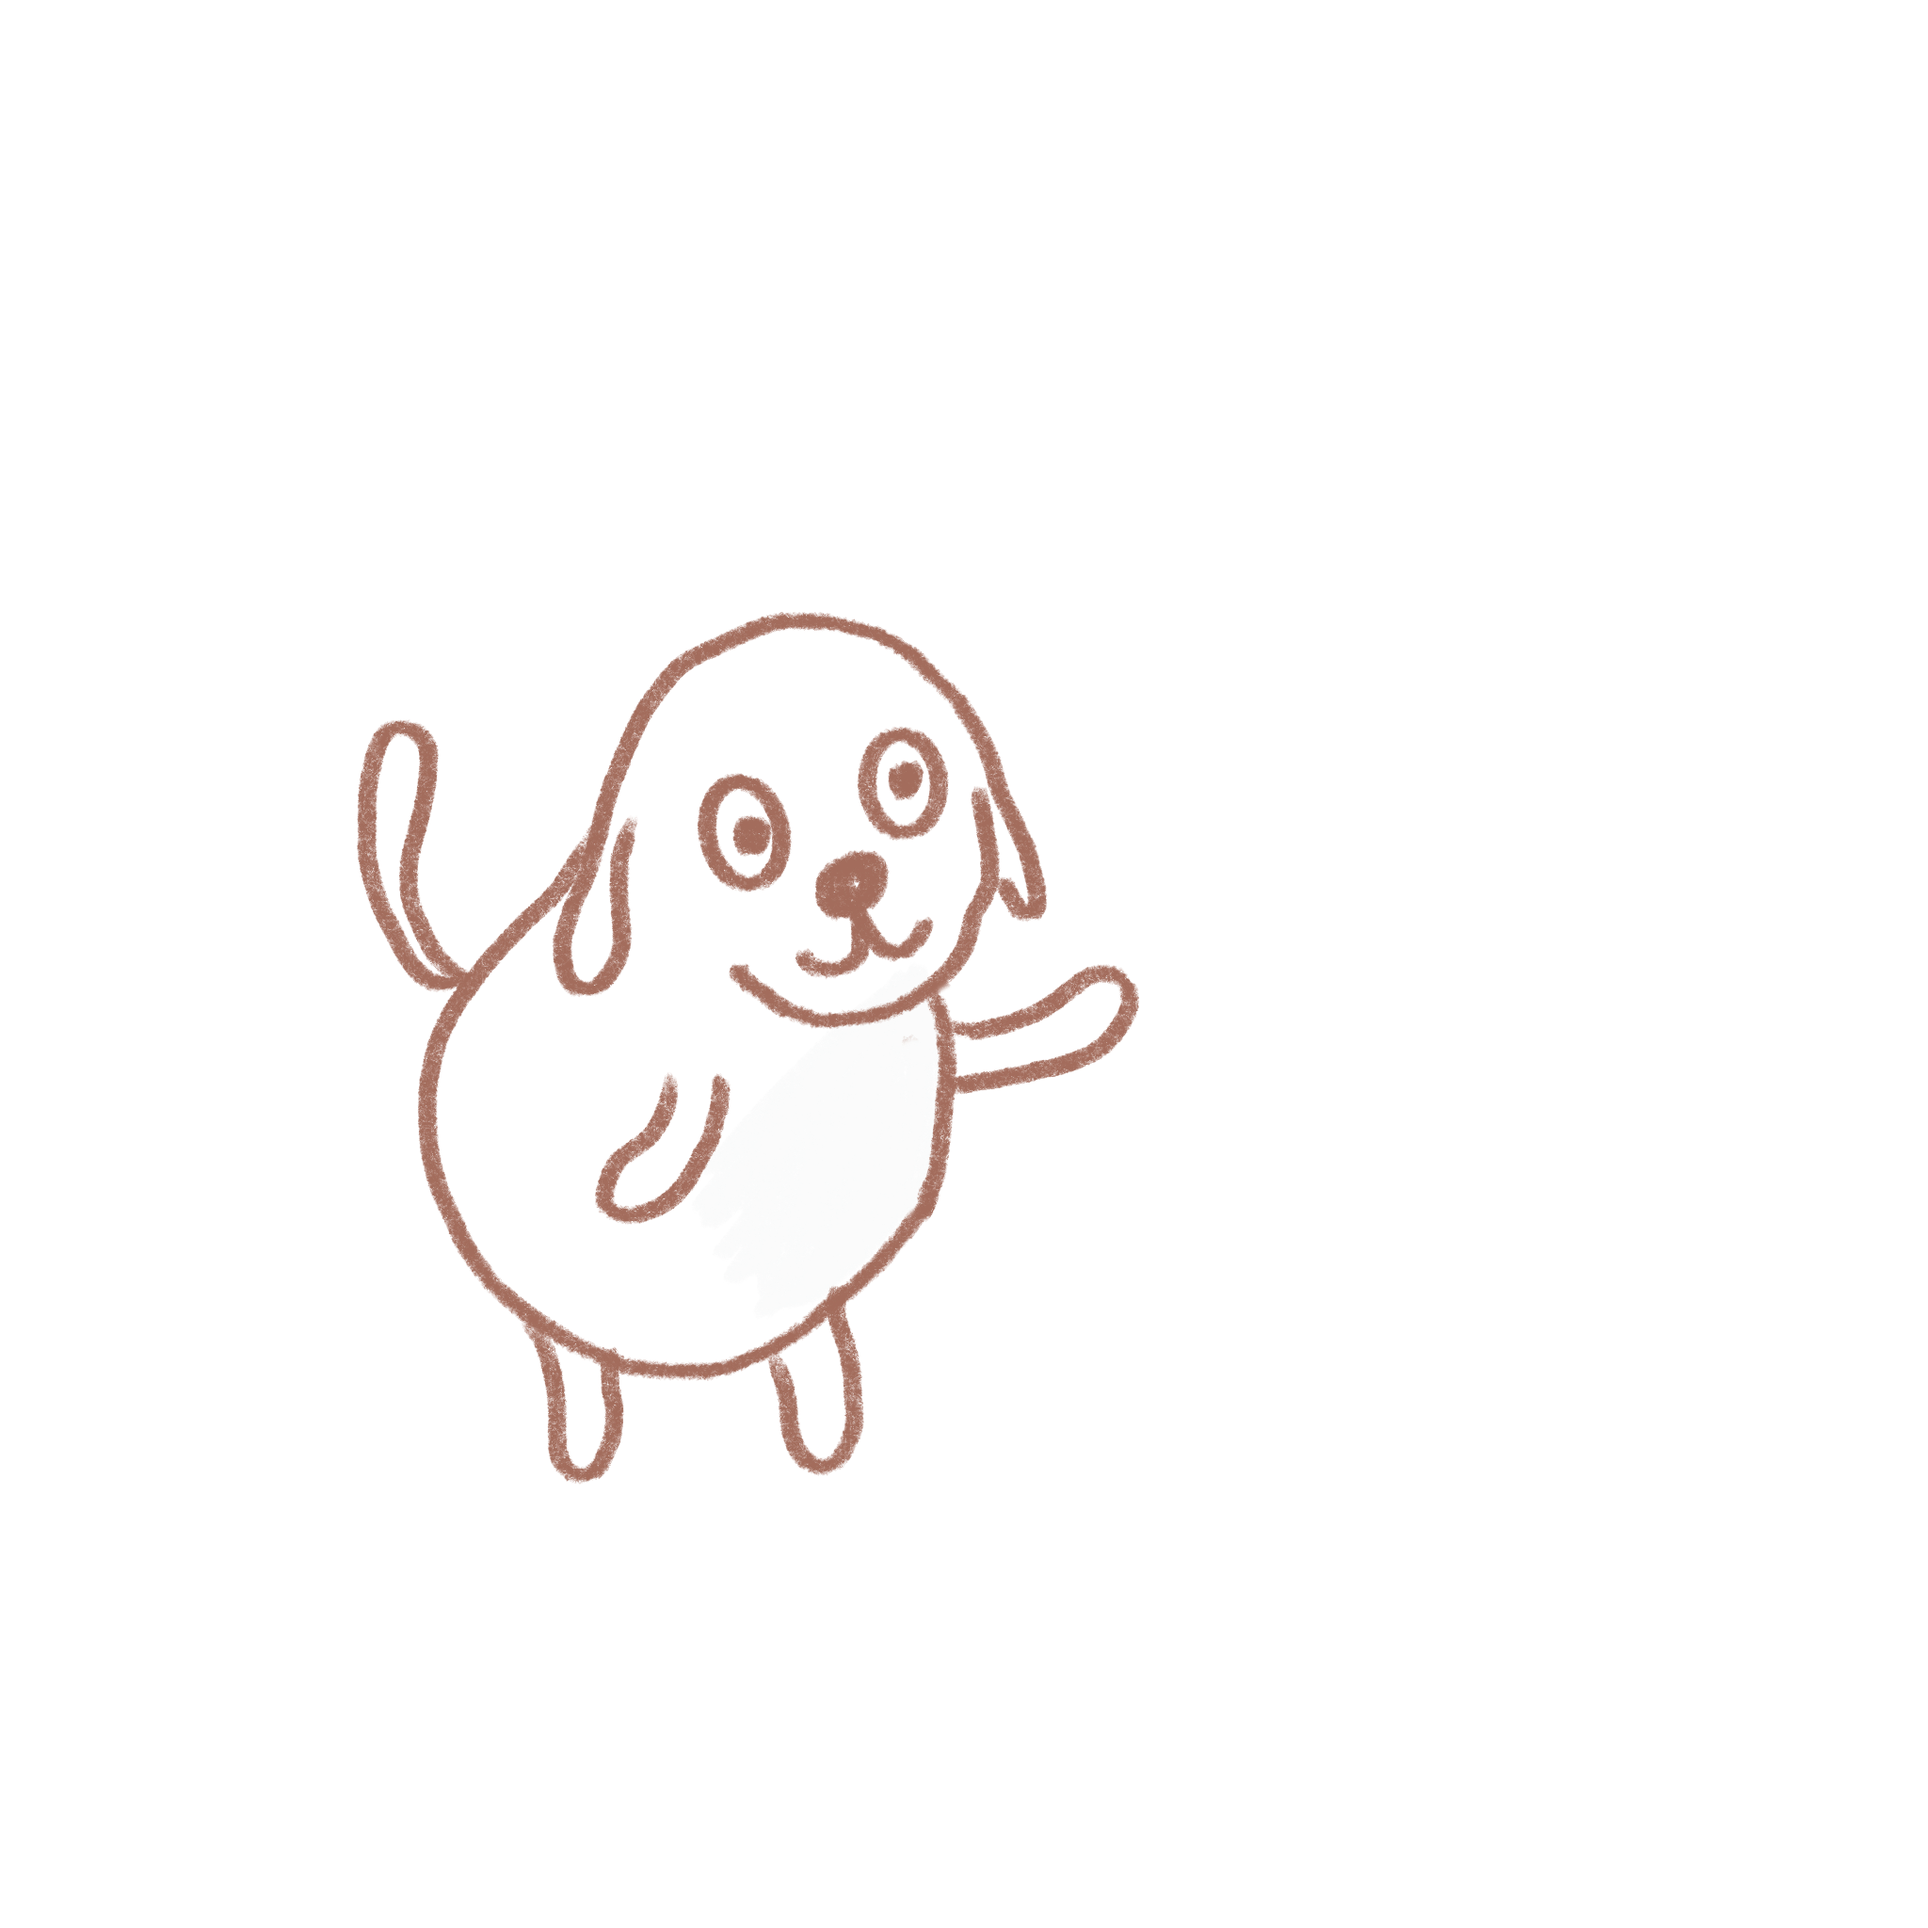
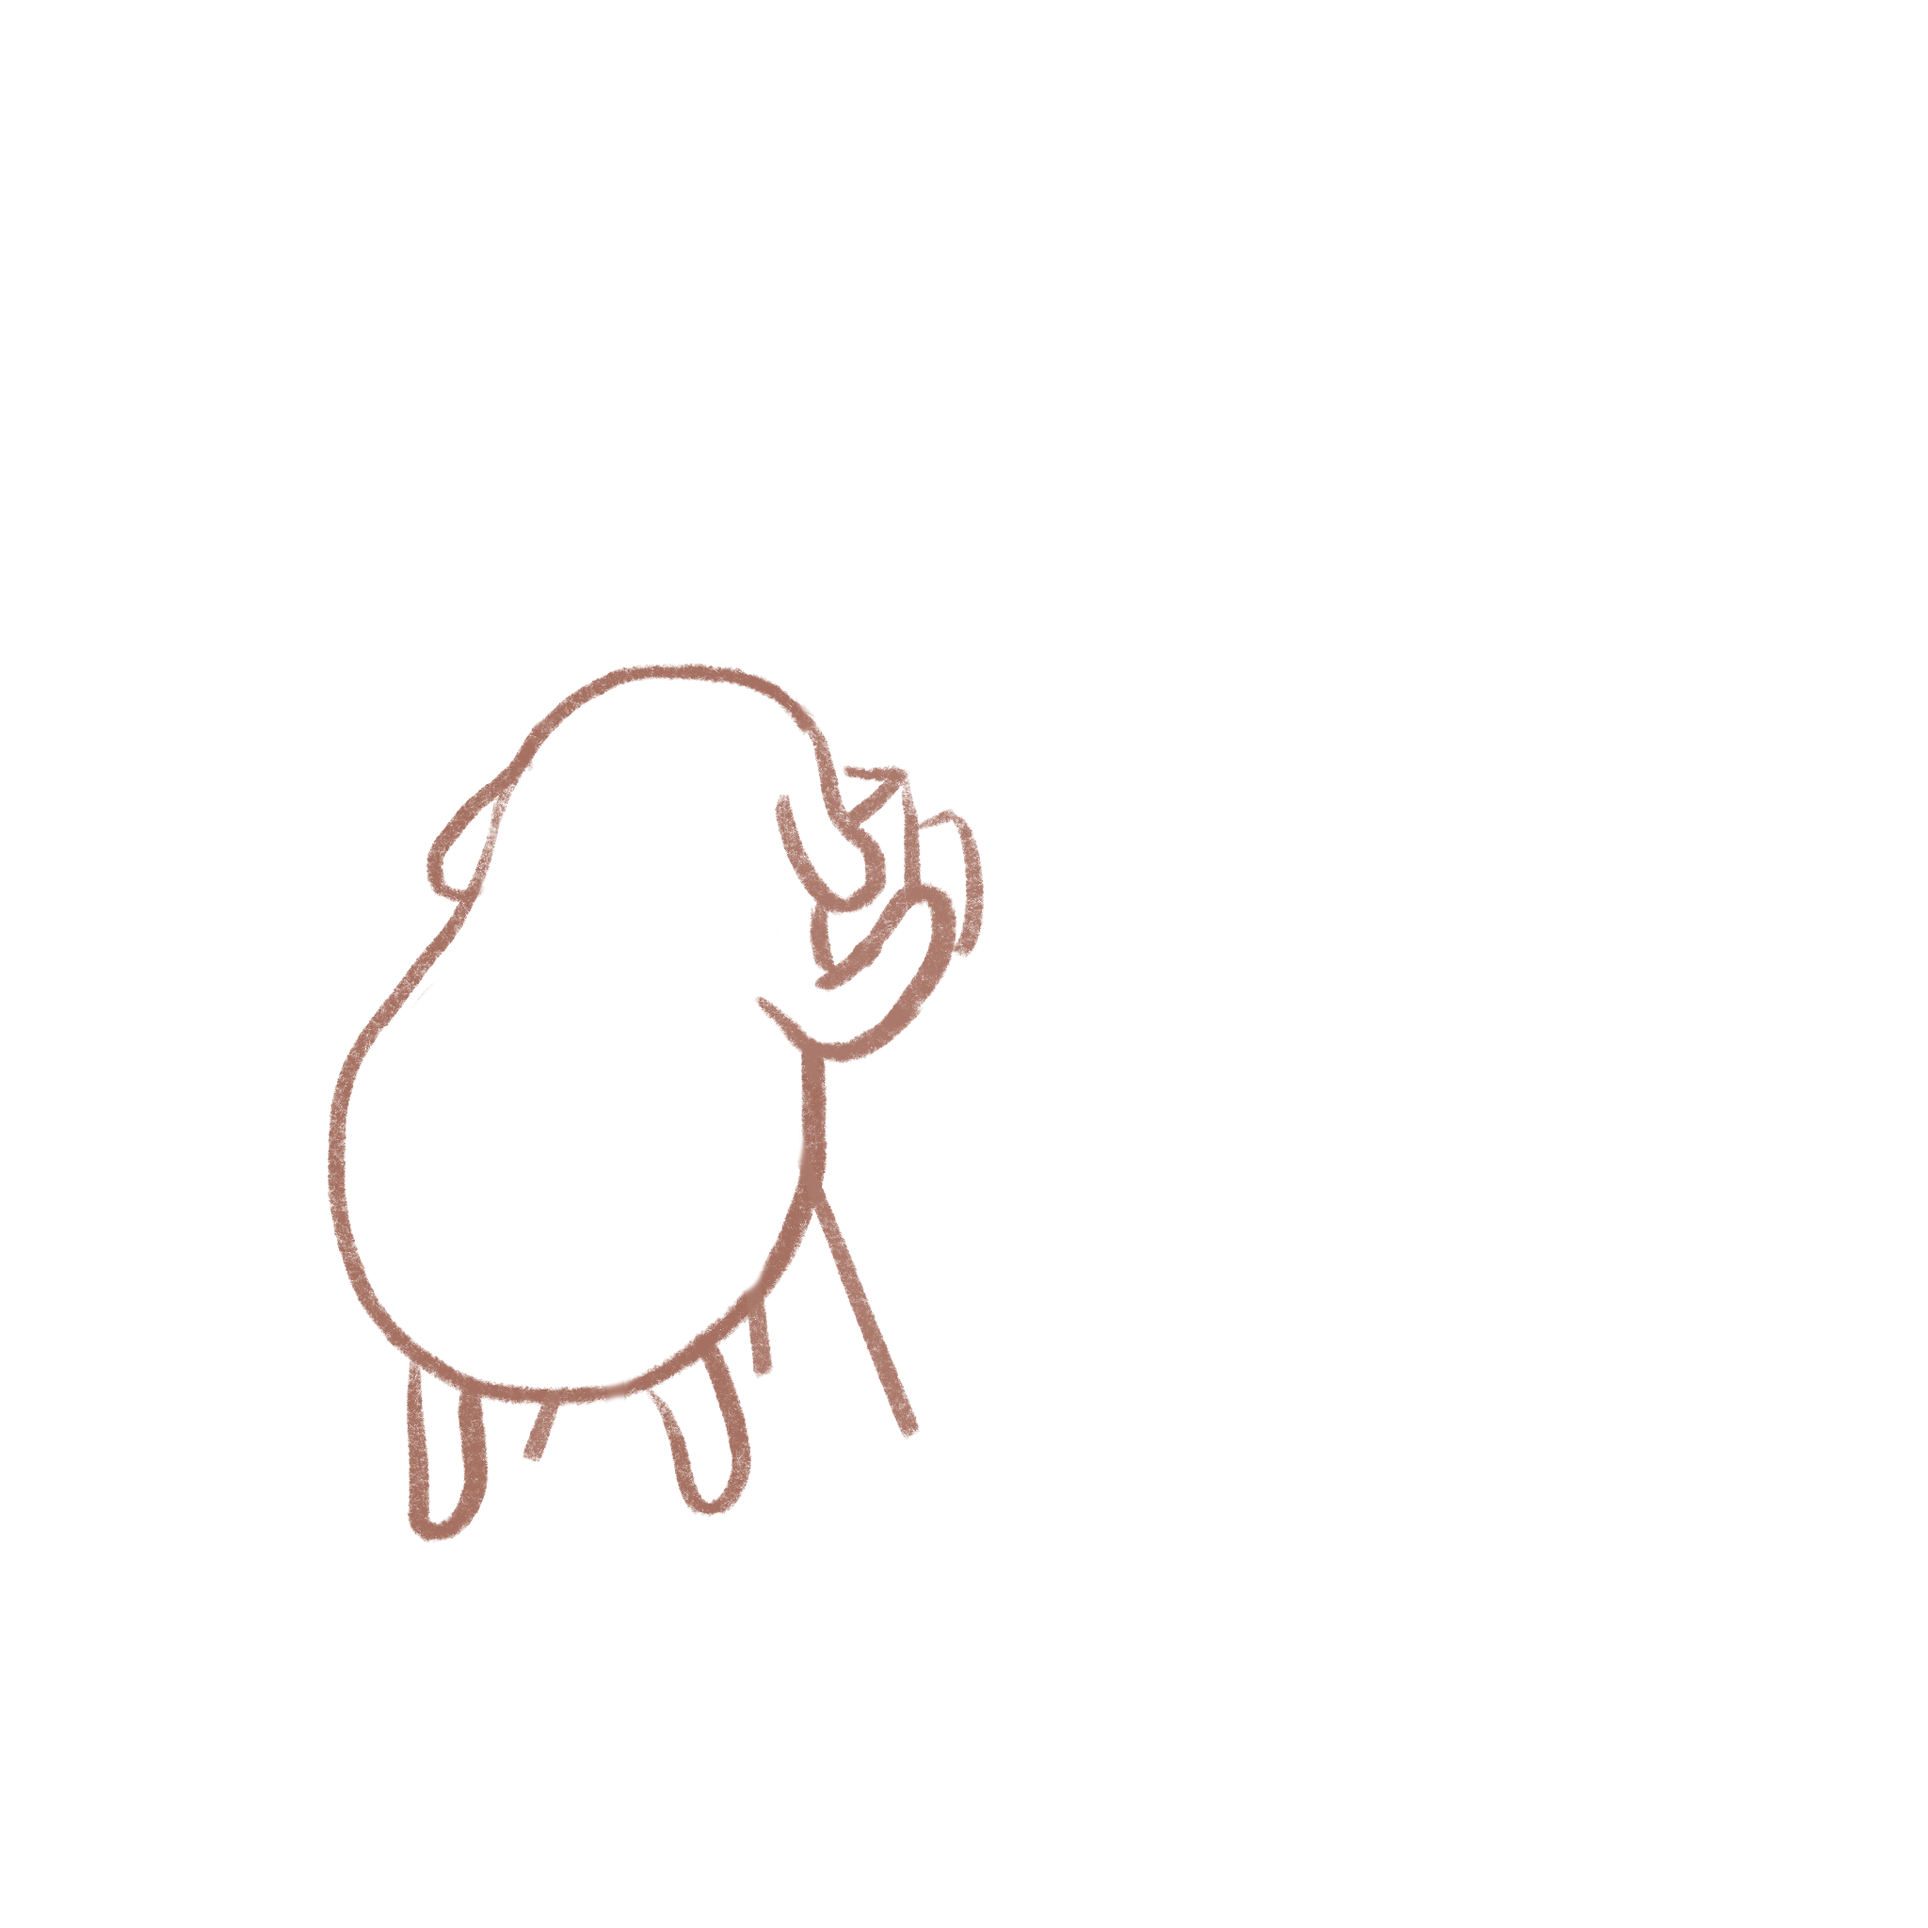
rendering post - update dog 3

Changed region(s): [[0.1562, 0.3125, 0.5938, 0.8125], [0.3125, 0.5625, 0.375, 0.6562]]

diff --git a/src/components/Blog/posts/Rendering/Rendering.jsx b/src/components/Blog/posts/Rendering/Rendering.jsx
@@ -10,7 +10,7 @@ import Button from "components/_ui/Button/Button"
 import Aside from "components/_ui/Aside/Aside"
 import { scrollTo } from "utils";
 import Link from "components/_ui/Link/Link"
-import { RenderingDiagram, RenderingExample, RenderingExampleSvg, RenderingSandbox } from "./RenderingExample"
+import { RenderingExample, RenderingExampleSvg, RenderingSandbox } from "./RenderingExample"
 import chromeDebugColors from "./chromeDebugColors.json"
 import "./Rendering.scss"
 
@@ -24,6 +24,9 @@ import dog2d from "./dog2d.png"
 import dog3a from "./dog3a.png"
 import dog3b from "./dog3b.png"
 import dog3c from "./dog3c.png"
+import dog3d from "./dog3d.png"
+import dog3e from "./dog3e.png"
+import dogSide from "./dogSide.png"
 import chromeDevTools from "./chromeDevTools.png"
 import chromeDevToolsMenu from "./chromeDevToolsMenu.png"
 import safariDevTools from "./safariDevTools.png"
@@ -111,7 +114,7 @@ const Rendering = () => {
                   </p>
                   <div className="Rendering__off-to-side-wrapper">
                     <div className={`Rendering__off-to-side Rendering__off-to-side--${isInView > -1 && yesBowser ? "" : "hidden"}`}>
-                      <img src={dog3a} alt="" />
+                      <img src={dogSide} alt="" />
                     </div>
                   </div>
                 </>
@@ -458,10 +461,19 @@ const graphicImages = [
   }, {
     url: dog3b,
     position: [12, 3],
-    style: { transformOrigin: "60% 56%" },
-    animation: "wobble",
+    animation: "flash",
   }, {
     url: dog3c,
+    position: [12, 3],
+    style: { transformOrigin: "60% 56%" },
+    animation: "pan",
+  }, {
+    url: dog3d,
+    position: [12, 3],
+    style: { transformOrigin: "28.6% 66%" },
+    animation: "tail",
+  }, {
+    url: dog3e,
     position: [12, 3],
     animation: "",
   }],

diff --git a/src/components/Blog/posts/Rendering/Rendering.scss b/src/components/Blog/posts/Rendering/Rendering.scss
@@ -597,6 +597,36 @@
       }
     }
 
+    @keyframes tail {
+      0% {
+        transform: rotate(-19deg);
+      }
+      100% {
+        transform: rotate(-10deg);
+      }
+    }
+
+    @keyframes pan {
+      0% {
+        transform: translateY(-3px);
+      }
+      100% {
+        transform: translateY(3px);
+      }
+    }
+
+    @keyframes flash {
+      0% {
+        opacity: 0;
+      }
+      89% {
+        opacity: 0;
+      }
+      90% {
+        opacity: 1;
+      }
+    }
+
     @keyframes back-and-forth-path {
       0% {
         transform: rotate(5deg) translate(1px, 9px) translateZ(0);
